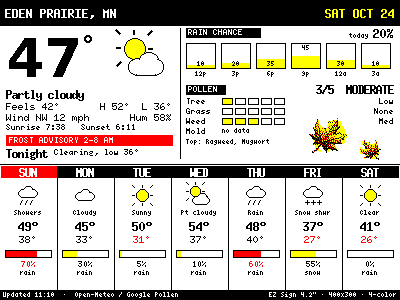
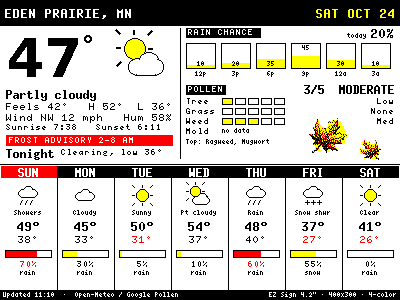
Weather: +1 px letter tracking for 5x7 and larger bitmap fonts
Claude-Session: https://claude.ai/code/session_014UobJA4ToZBu9RZ3YycZTm

diff --git a/tools/gen_weather.py b/tools/gen_weather.py
@@ -160,12 +160,26 @@ def leaves(im, spots, on_dark=False):
         im.paste(spr, (x, y), spr)
 
 
+TRACK = {}          # font -> extra px between glyphs; set in render()
+
+
+def TW(d, s, f):
+    """Text width with tracking."""
+    t = TRACK.get(f, 0)
+    return sum(round(d.textlength(ch, font=f)) + t for ch in s) - (t if s else 0)
+
+
 def T(d, x, y, s, f, c=K):
-    d.text((x, y), s, font=f, fill=c); return d.textlength(s, font=f)
+    """Draw text glyph by glyph so the bitmap fonts can be letter-spaced."""
+    t = TRACK.get(f, 0); x0 = x
+    for ch in s:
+        d.text((x, y), ch, font=f, fill=c)
+        x += round(d.textlength(ch, font=f)) + t
+    return x - x0 - (t if s else 0)
 
 
 def TR(d, xr, y, s, f, c=K):
-    w = d.textlength(s, font=f); d.text((xr - w, y), s, font=f, fill=c); return w
+    w = TW(d, s, f); T(d, xr - w, y, s, f, c); return w
 
 
 def bar(d, x, y, w, h, frac, col, warn=None):
@@ -177,6 +191,7 @@ def bar(d, x, y, w, h, frac, col, warn=None):
 
 def render(data):
     im = Image.new("RGB", (W, H), Wt); d = ImageDraw.Draw(im); d.fontmode = "1"
+    TRACK.update({F5: 1, F6: 1, F6B: 1, F7B: 1})
     t = data["today"]
     # ---- header
     HB = 26
@@ -200,13 +215,13 @@ def render(data):
         d.rectangle([6, y, 172, y + 10], fill=Rd); T(d, 9, y + 2, alert[:32].upper(), F5, Wt); y += 12
     tonight = data.get("tonight")
     if tonight:
-        T(d, 6, y, "Tonight", F6B); T(d, 6 + d.textlength("Tonight ", font=F6B), y + 2, tonight[:30], F5); y += 12
+        T(d, 6, y, "Tonight", F6B); T(d, 6 + TW(d, "Tonight ", F6B), y + 2, tonight[:30], F5); y += 12
     # ---- right column: rain (x 186..394)
     X0 = 186; d.line([(180, HB + 2), (180, 158)], fill=K)
     d.rectangle([X0, 28, X0 + 5 * 14 + 4, 37], fill=K); T(d, X0 + 2, 29, "RAIN CHANCE", F5, Wt)
     rc = t["rain"]
     TR(d, W - 6, 27, f"{rc}%", F7B, Rd if rc >= 60 else K)
-    T(d, W - 6 - d.textlength(f"{rc}%", font=F7B) - 4 - d.textlength("today", font=F4), 33, "today", F4)
+    T(d, W - 6 - TW(d, f"{rc}%", F7B) - 4 - TW(d, "today", F4), 33, "today", F4)
     # hourly bars
     hx, hy, bw, bh = X0, 43, 30, 26
     for i, (lab, p) in enumerate(data["rain_hours"][:6]):
@@ -215,8 +230,8 @@ def render(data):
         d.rectangle([x, hy, x + bw - 1, hy + bh - 1], outline=K)
         if fh:
             d.rectangle([x + 1, hy + bh - 1 - fh, x + bw - 2, hy + bh - 2], fill=Rd if p >= 60 else Yl)
-        T(d, x + (bw - d.textlength(f"{p}", font=F4)) // 2, hy + 2 if fh > 10 else hy + bh - 8, f"{p}", F4)
-        T(d, x + (bw - d.textlength(lab, font=F4)) // 2, hy + bh + 2, lab, F4)
+        T(d, x + (bw - TW(d, f"{p}", F4)) // 2, hy + 2 if fh > 10 else hy + bh - 8, f"{p}", F4)
+        T(d, x + (bw - TW(d, lab, F4)) // 2, hy + bh + 2, lab, F4)
     # ---- pollen
     py = 85
     d.rectangle([X0, py, X0 + 5 * 7 + 4, py + 9], fill=K); T(d, X0 + 2, py + 1, "POLLEN", F5, Wt)
@@ -249,15 +264,15 @@ def render(data):
             d.line([(x, sy), (x, H - 11)], fill=K)
         cx = x + cw // 2
         d.rectangle([x + 1, sy, x + cw - 1, sy + 11], fill=K if i else Rd)
-        T(d, cx - d.textlength(day["day"], font=F6B) // 2, sy, day["day"], F6B, Wt)
+        T(d, cx - TW(d, day["day"], F6B) // 2, sy, day["day"], F6B, Wt)
         icon(d, cx - 12, sy + 17, day["icon"])
-        T(d, cx - d.textlength(day.get("cond", ""), font=F4) // 2, sy + 44, day.get("cond", ""), F4)
-        T(d, cx - d.textlength(f"{day['hi']}°", font=F7B) // 2, sy + 54, f"{day['hi']}°", F7B)
-        T(d, cx - d.textlength(f"{day['lo']}°", font=F6) // 2, sy + 69, f"{day['lo']}°", F6, Rd if day["lo"] <= 32 else K)
+        T(d, cx - TW(d, day.get("cond", ""), F4) // 2, sy + 44, day.get("cond", ""), F4)
+        T(d, cx - TW(d, f"{day['hi']}°", F7B) // 2, sy + 54, f"{day['hi']}°", F7B)
+        T(d, cx - TW(d, f"{day['lo']}°", F6) // 2, sy + 69, f"{day['lo']}°", F6, Rd if day["lo"] <= 32 else K)
         p = day["rain"]
         bar(d, x + 5, sy + 84, cw - 10, 8, p / 100, Yl, warn=Rd)
-        T(d, cx - d.textlength(f"{p}%", font=F5) // 2, sy + 95, f"{p}%", F5, Rd if p >= 60 else K)
-        T(d, cx - d.textlength("rain", font=F4) // 2, sy + 104, "rain" if day["icon"] != "snow" else "snow", F4)
+        T(d, cx - TW(d, f"{p}%", F5) // 2, sy + 95, f"{p}%", F5, Rd if p >= 60 else K)
+        T(d, cx - TW(d, "rain", F4) // 2, sy + 104, "rain" if day["icon"] != "snow" else "snow", F4)
     # ---- fall leaves: two sprites derived from a reference illustration (tools/make_leaf_sprite.py)
     if data.get("leaves", True):
         for name, pos in (("leaf_52.png", (300, 112)), ("leaf_30.png", (356, 136))):
